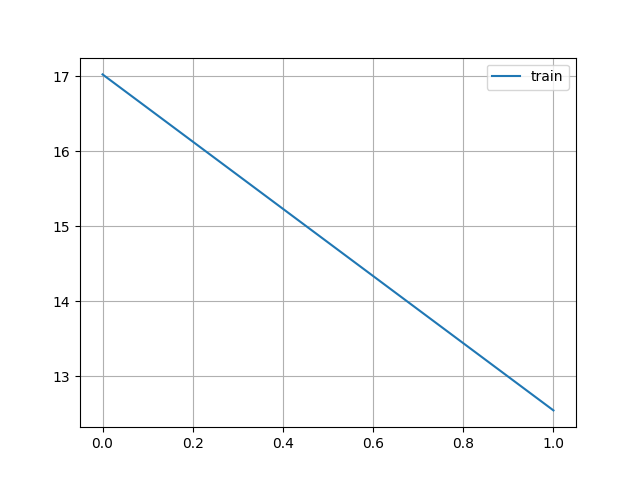
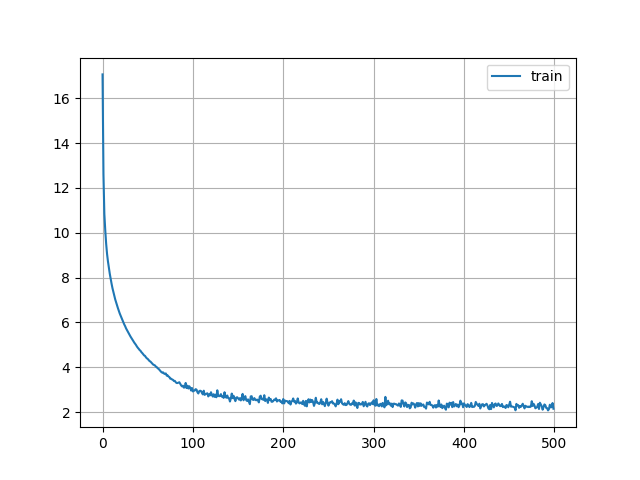
update

diff --git a/codes/Modern_RNNs/LSTM.py b/codes/Modern_RNNs/LSTM.py
@@ -2,18 +2,87 @@ import sys
 sys.path.append('../')
 
 import torch
+from torch import optim
 import torch.nn as nn
+
+from Recurrent_Neural_Network.read_long_sequence_data import load_data_time_machine
 from utils.utils import RNN_FROM_SCRATCH, train_rnn
 
 
-def init_params():
-    ...
+def init_params(vocab_size, hidden_size, device):
+    
+    def init_block():
+        w1 = torch.normal(mean=0, std=0.01, size=(vocab_size, hidden_size), requires_grad=True, device=device)
+        w2 = torch.normal(mean=0, std=0.01, size=(hidden_size, hidden_size), requires_grad=True, device=device)
+        b = torch.zeros(size=(hidden_size,), requires_grad=True, device=device)
 
-def init_state():
-    ...
+        return w1, w2, b
+    
+    w_xi, w_hi, b_i = init_block() # input gate
+    w_xf, w_hf, b_f = init_block() # forget gate
+    w_xo, w_ho, b_o = init_block() # output gate
+    w_xc, w_hc, b_c = init_block() # candidate memory
+    
+    # final output
+    w_hq = torch.normal(mean=0, std=0.01, size=(hidden_size, vocab_size), requires_grad=True, device=device)
+    b_q = torch.zeros(size=(vocab_size,), requires_grad=True, device=device)
+    
+    params = [w_xi, w_hi, b_i, 
+              w_xf, w_hf, b_f, 
+              w_xo, w_ho, b_o, 
+              w_xc, w_hc, b_c, 
+              w_hq, b_q]
 
-def lstm():
-    ...
+    return params
 
-def main():
-    ...
+
+def init_state(batch_size, hidden_size, device):
+    hidden_state = torch.zeros((batch_size, hidden_size), device=device)
+    memory_state = torch.zeros((batch_size, hidden_size), device=device)
+    
+    return hidden_state, memory_state
+
+
+def lstm(x_batch, state, params, device):
+    w_xi, w_hi, b_i, w_xf, w_hf, b_f, w_xo, w_ho, b_o, w_xc, w_hc, b_c, w_hq, b_q = params
+    H, C = state
+    outputs = []
+    for x in x_batch:
+        x = x.to(device)
+        F = torch.sigmoid(x @ w_xf + H @ w_hf + b_f)
+        I = torch.sigmoid(x @ w_xi + H @ w_hi + b_i)
+        C_tilda = torch.tanh(x @ w_xc + H @ w_hc + b_c)
+        O = torch.sigmoid(x @ w_xo + H @ w_ho + b_o)
+        
+        H = O * torch.tanh(C * F + C_tilda * I)
+        C = C * F + C_tilda * I
+        
+        Y = H @ w_hq + b_q
+        
+        outputs.append(Y)
+    
+    res = torch.cat(outputs, dim=0)
+    
+    return res, (H, C)
+    
+
+def main(batch_size=32, epochs=500, lr=1.0, num_steps=32, hidden_size=256):
+    data_iter, vocab = load_data_time_machine(batch_size, num_steps, 
+                                              use_random_sample=False, 
+                                              token='char', max_tokens=-1)
+    vocab_size = len(vocab)
+    device = torch.device('cuda' if torch.cuda.is_available() else 'cpu')
+    params = init_params(vocab_size, hidden_size, device)
+    
+    net = RNN_FROM_SCRATCH(vocab_size, hidden_size, params, init_state, lstm, device)
+    loss_fun = nn.CrossEntropyLoss()
+    optimizer = optim.SGD(net.params, lr)
+    trainer = train_rnn()
+    
+    trainer(epochs, data_iter, vocab, 
+            net, loss_fun, optimizer, device, 
+            need_to_clip=True, fig_name='lstm_from_scratch', need_to_predict=True)
+
+
+if __name__ == "__main__":
+    main(epochs=2)

diff --git a/codes/Modern_RNNs/GRU_concise.py b/codes/Modern_RNNs/GRU_concise.py
@@ -1,0 +1,30 @@
+import sys
+sys.path.append('../')
+
+import torch
+from torch import optim
+import torch.nn as nn
+
+from Recurrent_Neural_Network.read_long_sequence_data import load_data_time_machine
+from utils.utils import RNN_Moduel, train_rnn
+
+
+def main(batch_size=32, epochs=500, lr=1.0, num_steps=32, hidden_size=256):
+    data_iter, vocab = load_data_time_machine(batch_size, num_steps, 
+                                              use_random_sample=False, 
+                                              token='char', max_tokens=-1)
+    vocab_size = len(vocab)
+    device = torch.device('cuda' if torch.cuda.is_available() else 'cpu')
+    gru = nn.GRU(vocab_size, hidden_size)
+    net = RNN_Moduel(gru, vocab_size, hidden_size, device).to(device)
+    loss_fun = nn.CrossEntropyLoss()
+    optimizer = optim.SGD(net.parameters(), lr)
+    trainer = train_rnn()
+    
+    trainer(epochs, data_iter, vocab, 
+            net, loss_fun, optimizer, device, 
+            need_to_clip=True, fig_name='gru_concise', need_to_predict=True)
+    
+
+if __name__ == '__main__':
+    main(epochs=500)

diff --git a/codes/utils/utils.py b/codes/utils/utils.py
@@ -233,6 +233,7 @@ class RNN_FROM_SCRATCH:
 
 class RNN_Moduel(nn.Module):
     def __init__(self, forward_fn, vocab_size, hidden_size, device):
+        super().__init__()
         self.forward_fn = forward_fn
         self.vocab_size = vocab_size
         self.hidden_size = hidden_size
@@ -241,13 +242,13 @@ class RNN_Moduel(nn.Module):
     
     def forward(self, x, hidden_state):
         x = F.one_hot(x.T, self.vocab_size).type(torch.float32).to(self.device)
-        y, hidden_state = self.rnn(x, hidden_state) # y.shape=(num_steps, batch_size, hidden_size)
+        y, hidden_state = self.forward_fn(x, hidden_state) # y.shape=(num_steps, batch_size, hidden_size)
         y = self.linear(y.reshape(-1, y.shape[-1]))
         
         return y, hidden_state
     
-    def begin_state(self, batch_size, device):
-        return torch.zeros(self.rnn.num_layers, batch_size, self.hidden_size).to(self.device)
+    def hidden_state_init(self, batch_size):
+        return torch.zeros(size=(self.forward_fn.num_layers, batch_size, self.hidden_size), device=self.device)
     
 
 def train_rnn():

diff --git a/codes/Modern_RNNs/GRU.py b/codes/Modern_RNNs/GRU.py
@@ -78,4 +78,4 @@ def main(batch_size=32, epochs=500, lr=1.0, num_steps=32, hidden_size=256):
 
 
 if __name__ == "__main__":
-    main(epochs=2)
+    main(epochs=500)
